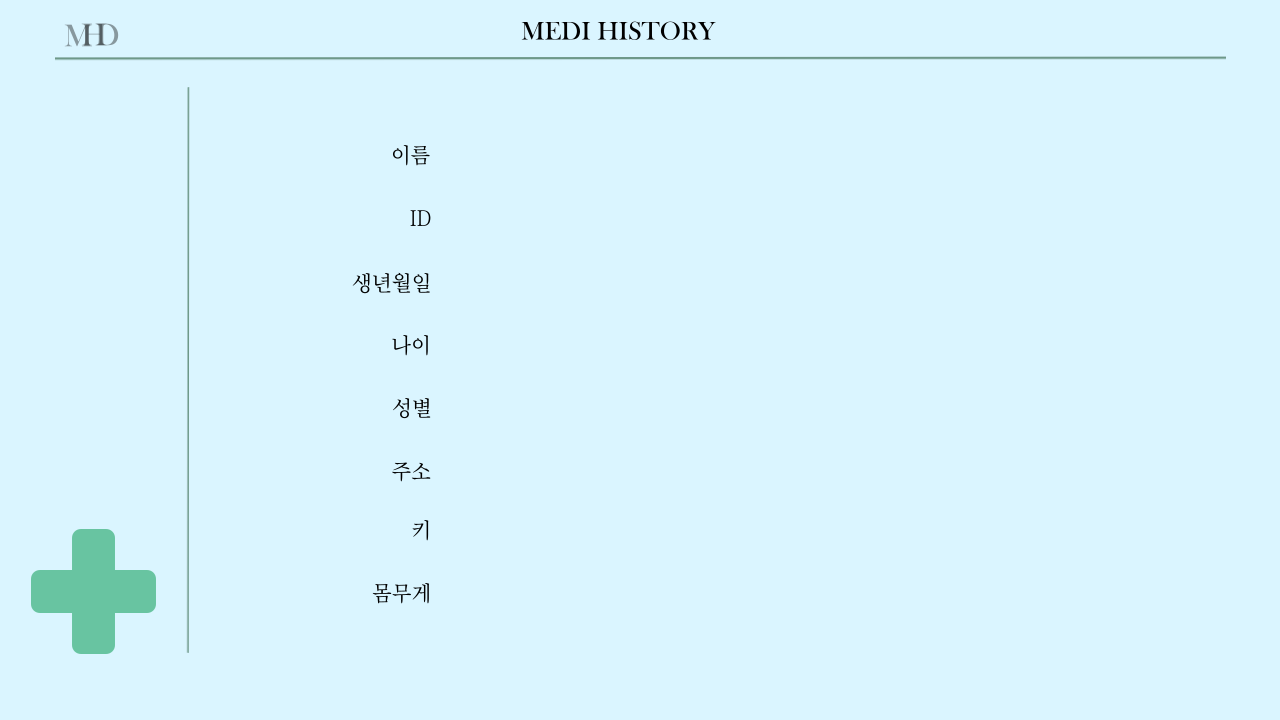
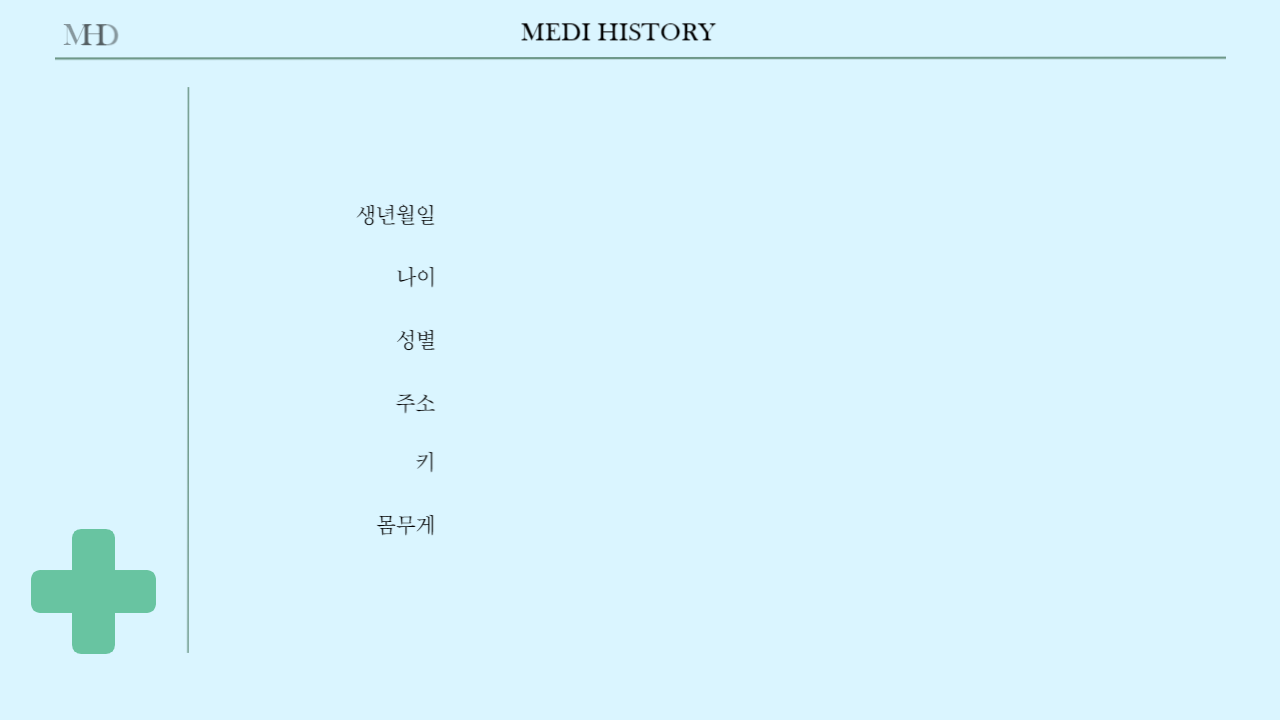
환자 정보 수정 창 완성

diff --git a/src/Projects/Patient_Profile_Edit.java b/src/Projects/Patient_Profile_Edit.java
@@ -3,10 +3,13 @@ package Projects;
 import java.awt.Color;
 import java.awt.Font;
 
+import javax.swing.ButtonGroup;
 import javax.swing.ImageIcon;
 import javax.swing.JButton;
 import javax.swing.JCheckBox;
 import javax.swing.JLabel;
+import javax.swing.JOptionPane;
+import javax.swing.JRadioButton;
 import javax.swing.JTextField;
 
 public class Patient_Profile_Edit extends CommonFrame {
@@ -16,20 +19,19 @@ public class Patient_Profile_Edit extends CommonFrame {
 	JButton Showbtn = new JButton(new ImageIcon("images/pt_show_pt.png"));
 	JButton Profileeditbtn = new JButton(new ImageIcon("images/pt_pf_edit_ch_bt.png"));
 	// textField 선언
-	JTextField nametx = new JTextField();
-	JTextField IDtx = new JTextField();
 	JTextField birthtx = new JTextField();
 	JTextField agetx = new JTextField();
-	JCheckBox girl = new JCheckBox("여성");
-	JCheckBox boy= new JCheckBox("남성");
+	JRadioButton  girl = new JRadioButton("여성");
+	JRadioButton boy= new JRadioButton("남성");
 	JTextField addtx = new JTextField();
 	JTextField heighttx = new JTextField();
 	JTextField weighttx = new JTextField();
-
+	ButtonGroup gender = new ButtonGroup();
+	String GENDER ="";
 	public Patient_Profile_Edit() {
 		super("Patient_Profile", Main.SCREEN_WIDTH, Main.SCREEN_HEIGHT);
 		// 버튼 투명하게 만들기
-
+		
 		Profilebtn.setBorderPainted(false);
 		Profilebtn.setContentAreaFilled(false);
 		Profilebtn.setFocusPainted(false);
@@ -46,7 +48,7 @@ public class Patient_Profile_Edit extends CommonFrame {
 		Submitbtn.setContentAreaFilled(false);
 		Submitbtn.setFocusPainted(false);
 
-		Submitbtn.setBounds(752, 630, 163, 60);
+		Submitbtn.setBounds(752, 564, 163, 60);
 		add(Submitbtn);
 
 		Profilebtn.setBounds(59, 107, 104, 80);
@@ -59,76 +61,79 @@ public class Patient_Profile_Edit extends CommonFrame {
 		add(Profileeditbtn);
 
 		// textField 설정
-		nametx.setBounds(463,135,452,42);
-		nametx.revalidate();// 왜 추가 했지? 자동 레이아웃 설정 가능하게 하는 코드
-		nametx.setBackground(Color.decode("#CACACA"));// textField 색상 변경
-		nametx.setBorder(null); // textField 테두리 삭제
-		nametx.setFont(new Font("조선신명조", Font.PLAIN, 18)); // 입력받을 때, 문자 크기 및 폰트 설정
-		add(nametx);// textField 추가
 		
-		IDtx.setBounds(463,197,452,42);
-		IDtx.revalidate();// 왜 추가 했지? 자동 레이아웃 설정 가능하게 하는 코드
-		IDtx.setBackground(Color.decode("#CACACA"));// textField 색상 변경
-		IDtx.setBorder(null); // textField 테두리 삭제
-		IDtx.setFont(new Font("조선신명조", Font.PLAIN, 18)); // 입력받을 때, 문자 크기 및 폰트 설정
-		add(IDtx);// textField 추가
-		
-		birthtx.setBounds(463,261,452,42);
+		birthtx.setBounds(463,196,452,42);
 		birthtx.revalidate();// 왜 추가 했지? 자동 레이아웃 설정 가능하게 하는 코드
 		birthtx.setBackground(Color.decode("#CACACA"));// textField 색상 변경
 		birthtx.setBorder(null); // textField 테두리 삭제
 		birthtx.setFont(new Font("조선신명조", Font.PLAIN, 18)); // 입력받을 때, 문자 크기 및 폰트 설정
 		add(birthtx);// textField 추가
 		
-		agetx.setBounds(463,324,452,42);
+		agetx.setBounds(463,260,452,42);
 		agetx.revalidate();// 왜 추가 했지? 자동 레이아웃 설정 가능하게 하는 코드
 		agetx.setBackground(Color.decode("#CACACA"));// textField 색상 변경
 		agetx.setBorder(null); // textField 테두리 삭제
 		agetx.setFont(new Font("조선신명조", Font.PLAIN, 18)); // 입력받을 때, 문자 크기 및 폰트 설정
 		add(agetx);// textField 추가
 		
-		girl.setBounds(463,380,80,42);
+		girl.setBounds(463,318,80,42);
 		girl.revalidate();// 왜 추가 했지? 자동 레이아웃 설정 가능하게 하는 코드
 		girl.setBorderPainted(false);
 		girl.setContentAreaFilled(false);
 		girl.setFocusPainted(false);
 		girl.setFont(new Font("조선신명조", Font.PLAIN, 18)); // 입력받을 때, 문자 크기 및 폰트 설정
 		add(girl);
-		boy.setBounds(600,380,80,42);
+		boy.setBounds(600,318,80,42);
 		boy.revalidate();// 왜 추가 했지? 자동 레이아웃 설정 가능하게 하는 코드
 		boy.setBorderPainted(false);
 		boy.setContentAreaFilled(false);
 		boy.setFocusPainted(false);
 		boy.setFont(new Font("조선신명조", Font.PLAIN, 18)); // 입력받을 때, 문자 크기 및 폰트 설정
 		add(boy);
+		gender.add(girl);
+		gender.add(boy);
+		this.add(girl);
+		this.add(boy);
 		
-		addtx.setBounds(463,451,452,42);
+		
+		addtx.setBounds(463,382,452,42);
 		addtx.revalidate();// 왜 추가 했지? 자동 레이아웃 설정 가능하게 하는 코드
 		addtx.setBackground(Color.decode("#CACACA"));// textField 색상 변경
 		addtx.setBorder(null); // textField 테두리 삭제
 		addtx.setFont(new Font("조선신명조", Font.PLAIN, 18)); // 입력받을 때, 문자 크기 및 폰트 설정
 		add(addtx);// textField 추가
 		
-		heighttx.setBounds(463,508,452,42);
+		heighttx.setBounds(463,440,452,42);
 		heighttx.revalidate();// 왜 추가 했지? 자동 레이아웃 설정 가능하게 하는 코드
 		heighttx.setBackground(Color.decode("#CACACA"));// textField 색상 변경
 		heighttx.setBorder(null); // textField 테두리 삭제
 		heighttx.setFont(new Font("조선신명조", Font.PLAIN, 18)); // 입력받을 때, 문자 크기 및 폰트 설정
 		add(heighttx);// textField 추가
 		
-		weighttx.setBounds(463,573,452,42);
+		weighttx.setBounds(463,500,452,42);
 		weighttx.revalidate();// 왜 추가 했지? 자동 레이아웃 설정 가능하게 하는 코드
 		weighttx.setBackground(Color.decode("#CACACA"));// textField 색상 변경
 		weighttx.setBorder(null); // textField 테두리 삭제
 		weighttx.setFont(new Font("조선신명조", Font.PLAIN, 18)); // 입력받을 때, 문자 크기 및 폰트 설정
 		add(weighttx);// textField 추가
+		if(girl.isSelected()) {
+			 GENDER= "여성";
+		}
+		if(boy.isSelected()) {
+			GENDER = "남성";
+		}
+		girl.addActionListener(e -> {
+		    GENDER = "여성";
+		});
+		boy.addActionListener(e -> {
+		    GENDER = "남성";
+		});
 		
-		JLabel lb = new JLabel(getIcon("images/Patient_Profile.png", Main.SCREEN_WIDTH, Main.SCREEN_HEIGHT));
+		JLabel lb = new JLabel(getIcon("images/Patient_Profile_Edit.png", Main.SCREEN_WIDTH, Main.SCREEN_HEIGHT));
 		lb.setBounds(0, 0, Main.SCREEN_WIDTH, Main.SCREEN_HEIGHT);
 		add(lb);
 		Submitbtn.addActionListener(e -> {
-			dispose();
-			new Patient_Profile().setVisible(true);
+			 signUp();
 		});
 		Profilebtn.addActionListener(e -> {
 			dispose();
@@ -145,4 +150,25 @@ public class Patient_Profile_Edit extends CommonFrame {
 			new Patient_Profile_Edit().setVisible(true);
 		});
 	}
+
+	private void signUp() {
+	
+        String birth =  birthtx.getText();
+        String age = agetx.getText();
+        String address = addtx.getText();
+        String height = heighttx.getText();
+        String weight = weighttx.getText();
+        
+      
+        // JDBC를 사용하여 MySQL 데이터베이스에 연결
+        // DatabaseConnection 클래스로부터 Connection을 가져옴
+        
+        try {
+        	update("UPDATE patient_info set birth =?, age = ?, gender =?, address = ?, weight = ?, height = ? Where id =?",birth, age, GENDER, address, weight, height, id_check);
+        	new Patient_Profile().setVisible(true);
+		} catch (Exception e) {
+			JOptionPane.showMessageDialog(this, "업데이트 실패!");
+			e.printStackTrace();
+		}
+    }
 }

diff --git a/src/Projects/Patient_Login.java b/src/Projects/Patient_Login.java
@@ -53,6 +53,7 @@ public class Patient_Login extends CommonFrame {
 				PWtx.setBounds(496, 389, 373, 57);
 				PWtx.revalidate();
 				PWtx.setBackground(Color.decode("#CACACA"));
+				PWtx.setFont(new Font("조선신명조", Font.PLAIN, 18)); // 입력받을 때, 문자 크기 및 폰트 설정
 				PWtx.setBorder(null);
 				add(PWtx);
 
@@ -78,6 +79,7 @@ public class Patient_Login extends CommonFrame {
 			if(rs.next()) {
 				id_check = id;
 				JOptionPane.showMessageDialog(this, "로그인 성공!");
+				
 				new Patient_Profile().setVisible(true);
 				
 			}

diff --git a/src/Projects/Patient_Join.java b/src/Projects/Patient_Join.java
@@ -107,6 +107,7 @@ public class Patient_Join extends CommonFrame {
         	new Patient_Login().setVisible(true);
         	update("insert into medical (id) values (?)", id);
         	update("insert into patient_info (id , name) values (?, ?)", id , name);
+        	id_check = id;
 		} catch (Exception e) {
 			JOptionPane.showMessageDialog(this, "회원가입 실패!");
 			e.printStackTrace();

diff --git a/src/Projects/CommonFrame.java b/src/Projects/CommonFrame.java
@@ -22,6 +22,7 @@ public class CommonFrame extends JFrame {
 	static Statement stmt;
 	static String id_check;
 
+
 	
 	static {
 		try {
